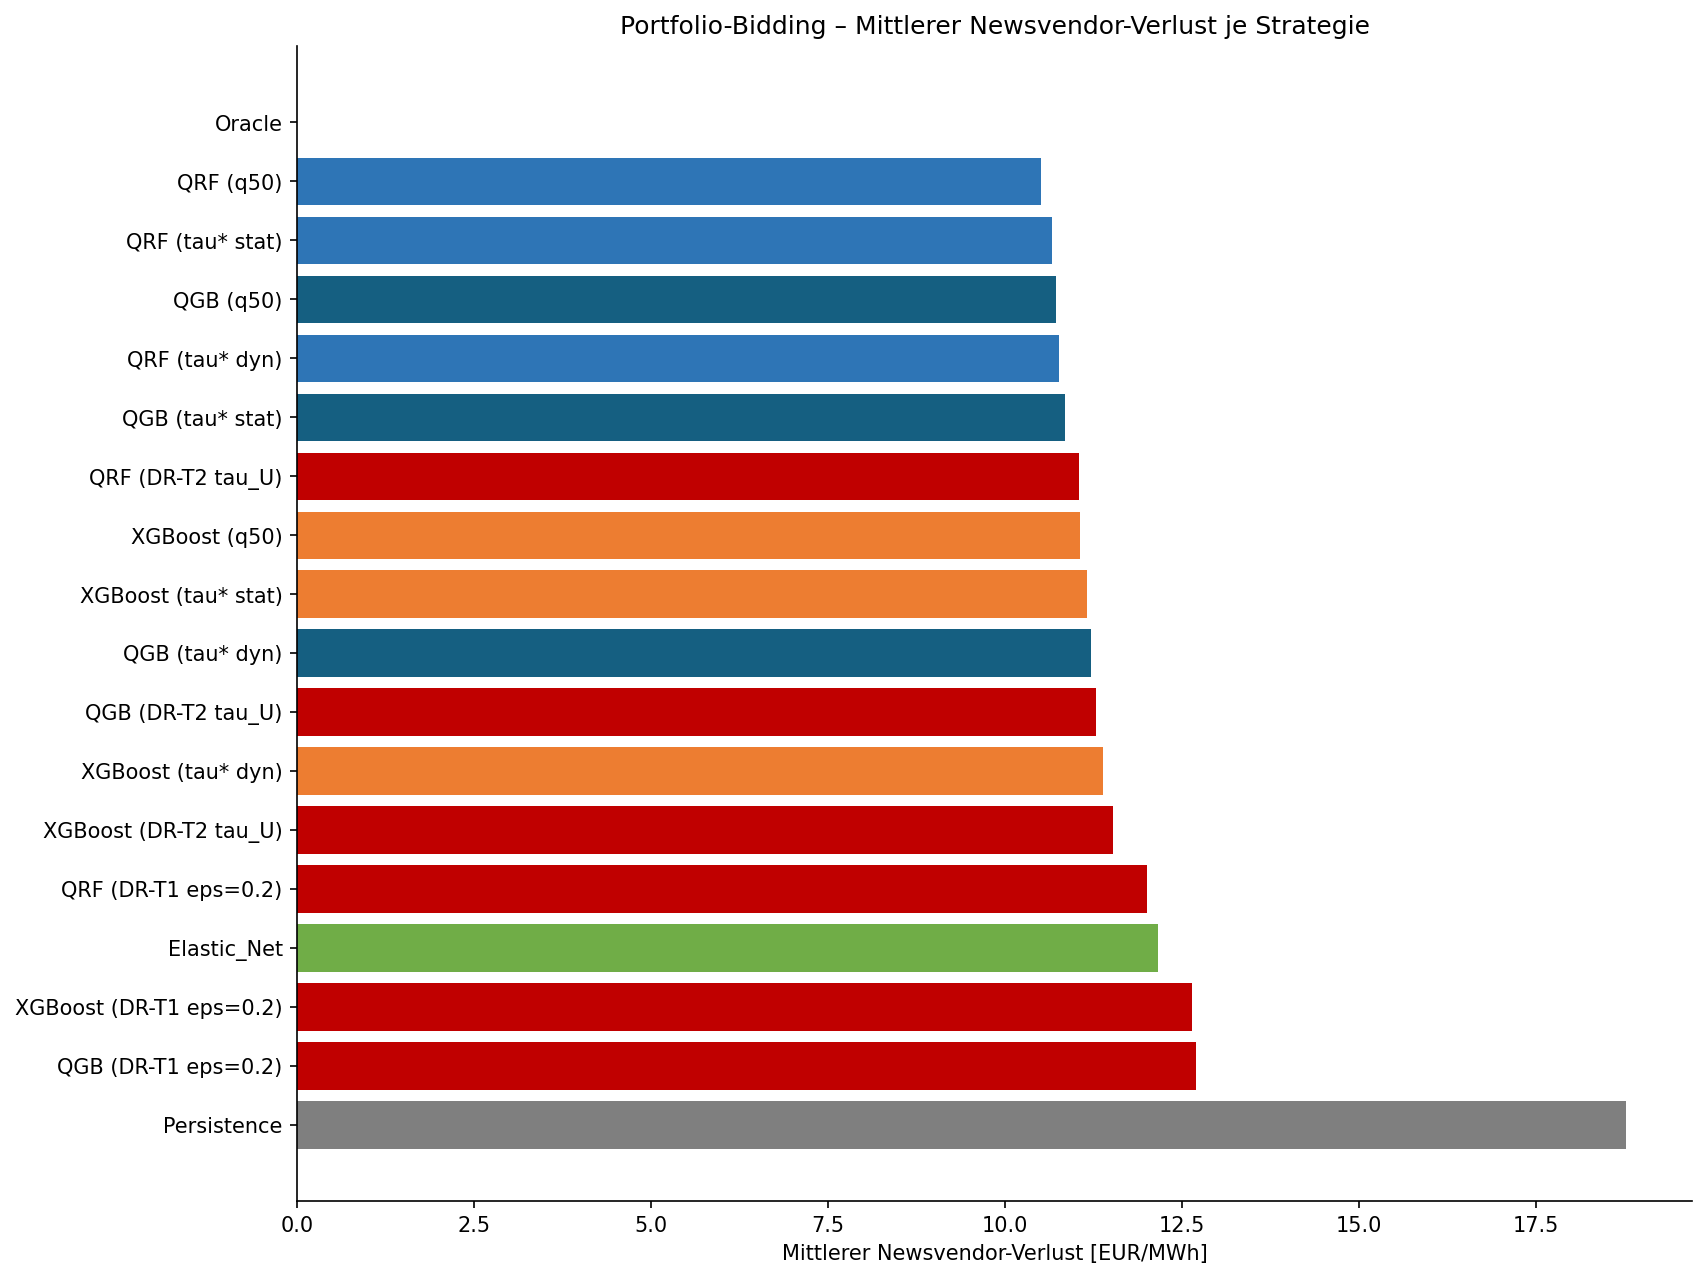
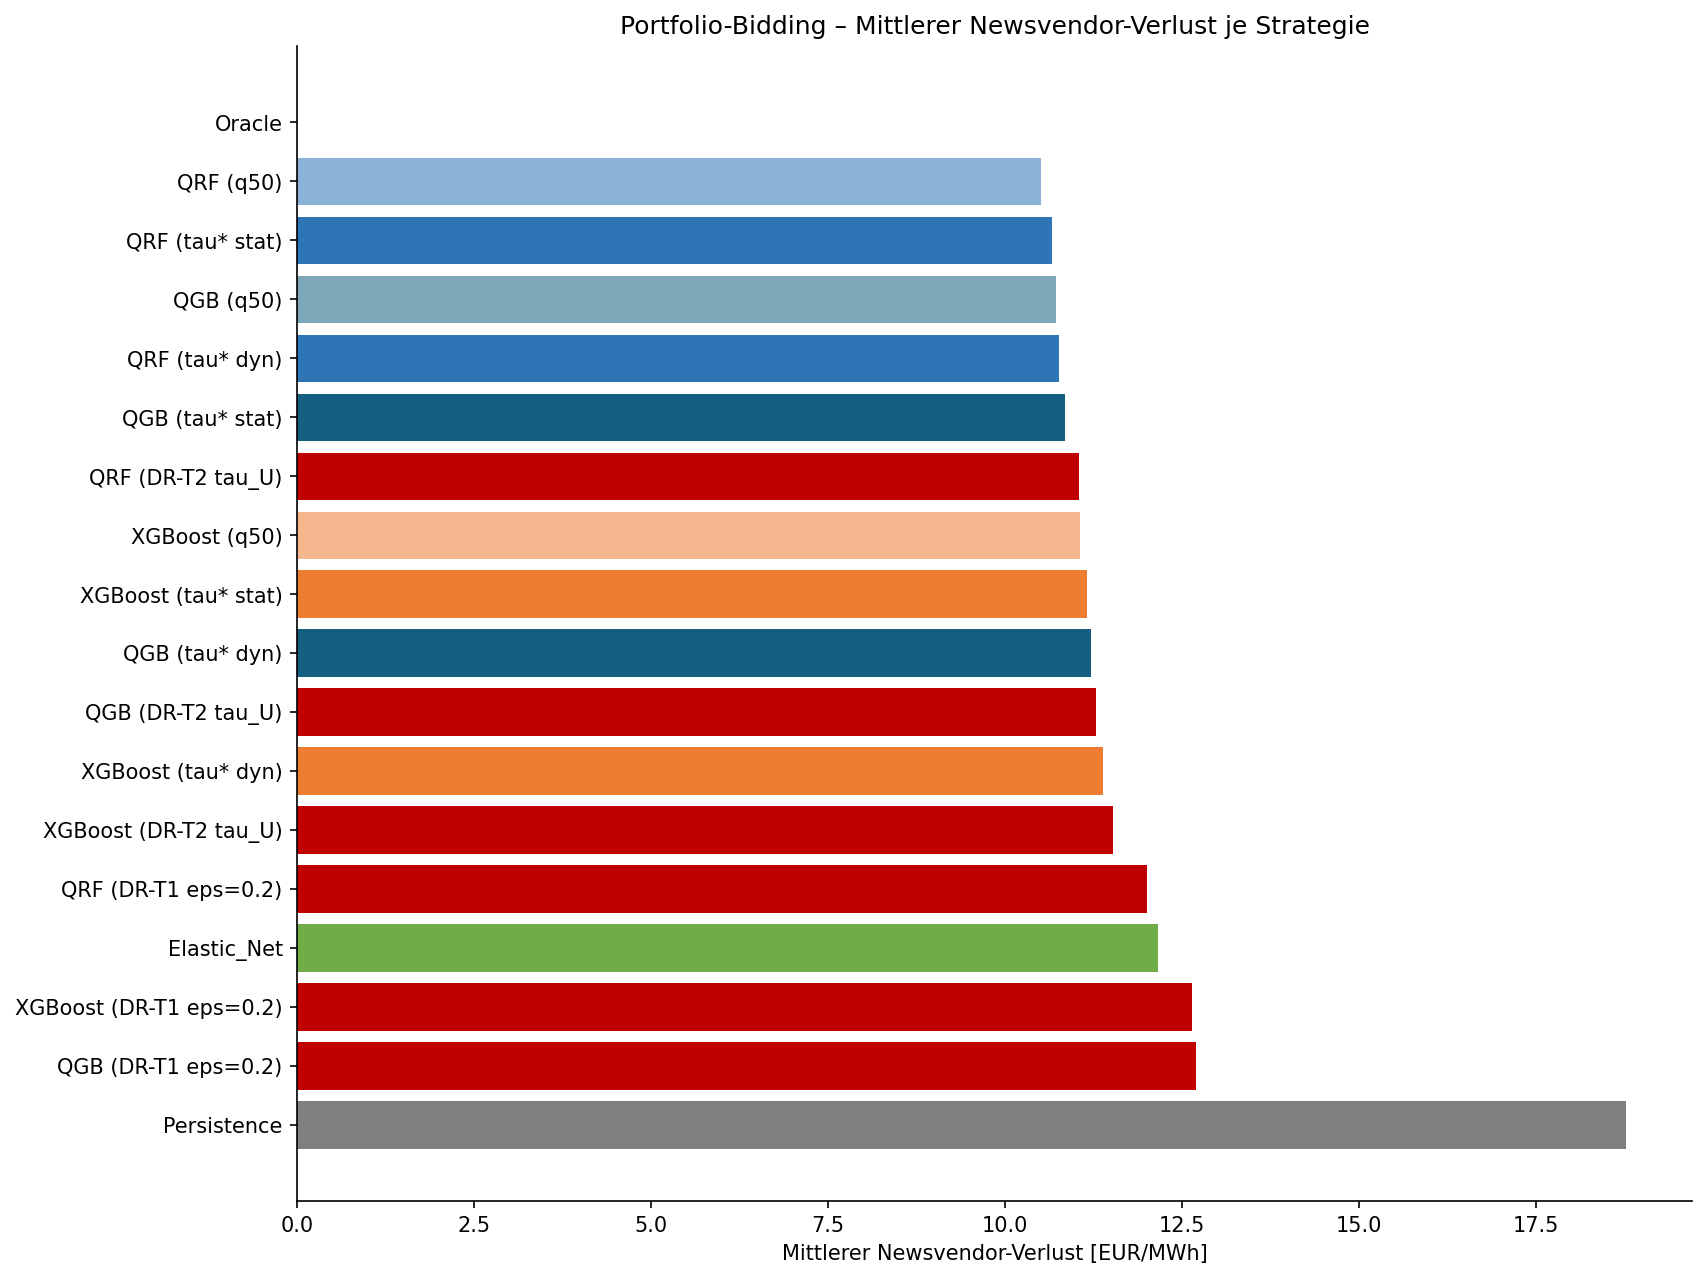
Figures: q50 bars lightened in bidding_portfolio, force widened to (20,3)
- bidding_portfolio_nvloss: q50 strategies now a lightened tint of the model color
  (distinct from the full-saturation tau* bars), per spec.
- shap_force: figsize (20,3) to match spec (already top-6 + aggregate for readability).

Changed region(s): [[0.1552, 0.3964, 0.652, 0.4574], [0.1552, 0.2134, 0.621, 0.2744], [0.1552, 0.122, 0.621, 0.183]]

diff --git a/notebooks/regenerate_figures.py b/notebooks/regenerate_figures.py
@@ -201,7 +201,7 @@ def fig_force():
     sv_red = np.concatenate([sv[i][keep], [sv[i][rest].sum()]])
     names = [f"{FEATURES[j]}={X[i][j]:.2f}" for j in keep] + [f"+{len(rest)} weitere"]
     shap.plots.force(base, sv_red, feature_names=names, matplotlib=True, show=False)
-    fig = plt.gcf(); fig.set_size_inches(16, 3)
+    fig = plt.gcf(); fig.set_size_inches(20, 3)
     for t in fig.axes[0].texts:
         t.set_fontsize(8)
     plt.tight_layout(); save(fig, f"shap_force_qgb_{PP.lower()}.png", 200)
@@ -269,13 +269,16 @@ def base_of(m):
 def fig_bidding_portfolio():
     br = pd.read_csv(TAB / "bidding_results.csv")
     port = br[br["scenario"] == "Portfolio"].sort_values("mean_nv_loss")
+    import matplotlib.colors as mc
+    def lighten(hexc, amt=0.45):
+        c = np.array(mc.to_rgb(hexc)); return tuple(c + (1 - c) * amt)
     def col(m):
         b = base_of(m)
         if b == "Oracle": return CRISP_COLORS["yellow"]
         if "DR-" in m: return CRISP_COLORS["red"]
         if b in ("Persistence", "Elastic_Net"): return MODEL_COLORS[b]
-        c = MODEL_COLORS.get(b, CRISP_COLORS["primary"])
-        return c
+        base_c = MODEL_COLORS.get(b, CRISP_COLORS["primary"])
+        return lighten(base_c) if "q50" in m else base_c   # q50 heller als tau*
     colors = [col(m) for m in port["model"]]
     fig, ax = plt.subplots(figsize=(12, 10))
     ax.barh(port["model"], port["mean_nv_loss"], color=colors)
